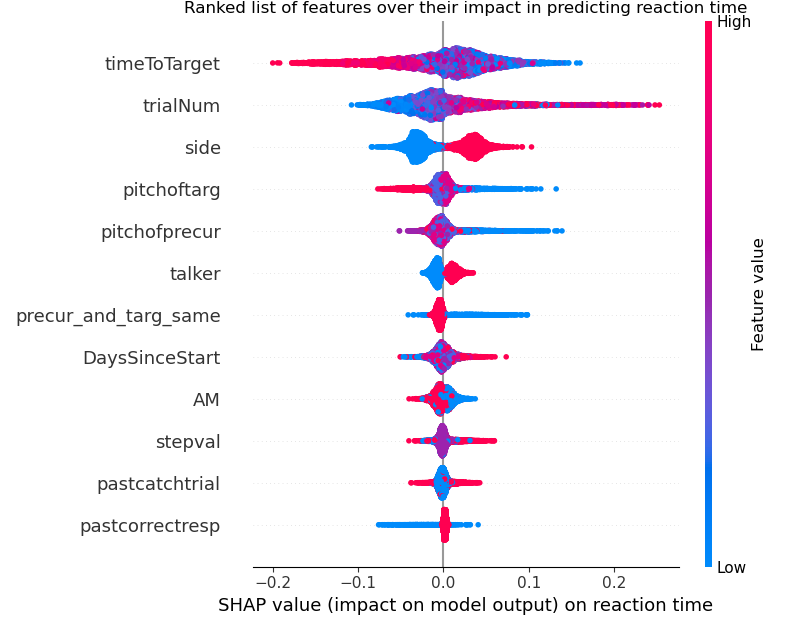
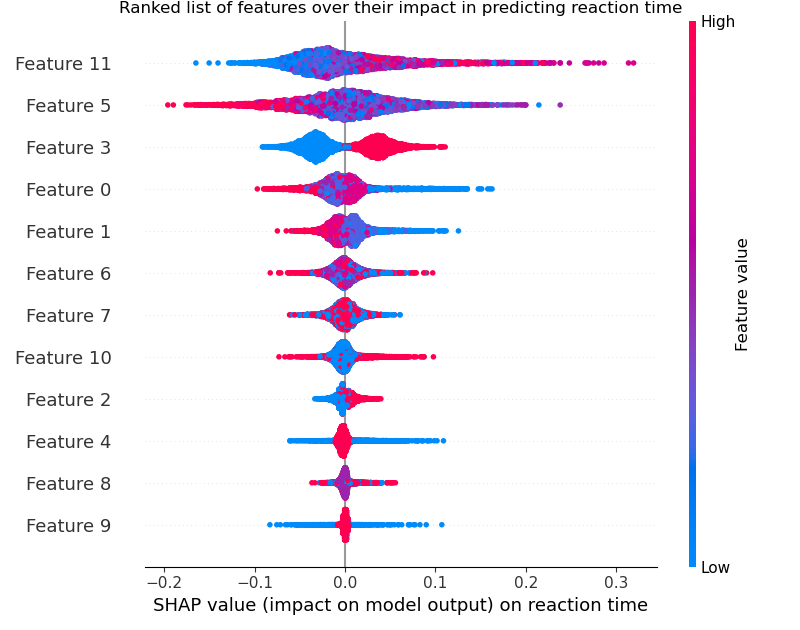
cleaning reactiontimemodel.py

diff --git a/reactiontimemodel.py b/reactiontimemodel.py
@@ -192,28 +192,28 @@ def runlgbreleasetimes(X, y, paramsinput=None):
 
     labels = [item.get_text() for item in ax.get_yticklabels()]
     print(labels)
-    # labels[11] = 'distance to sensor'
-    # labels[10] = 'target F0'
-    # labels[9] = 'trial number'
-    # labels[8] = 'precursor = target F0'
-    # labels[7] = 'male talker'
-    # labels[6] = 'time until target'
-    # labels[5] = 'target F0 - precursor F0'
-    # labels[4] = 'day of week'
-    # labels[3] = 'precursor F0'
-    # labels[2] = 'past trial was catch'
-    # labels[1] = 'trial took place in AM'
-    # labels[0] = 'past trial was correct'
+    labels[11] = 'distance to sensor'
+    labels[10] = 'target F0'
+    labels[9] = 'trial number'
+    labels[8] = 'precursor = target F0'
+    labels[7] = 'male talker'
+    labels[6] = 'time until target'
+    labels[5] = 'target F0 - precursor F0'
+    labels[4] = 'day of week'
+    labels[3] = 'precursor F0'
+    labels[2] = 'past trial was catch'
+    labels[1] = 'trial took place in AM'
+    labels[0] = 'past trial was correct'
 
     ax.set_yticklabels(labels)
     plt.savefig('figs/shapsummaryplot_allanimals2.png')
 
     plt.show()
 
-    shap.dependence_plot("timeToTarget", shap_values, dfx)  #
+    shap.dependence_plot("timeToTarget", shap_values, X_train)  #
 
-    explainer = shap.Explainer(xg_reg, dfx)
-    shap_values2 = explainer(dfx)
+    explainer = shap.Explainer(xg_reg, X_train)
+    shap_values2 = explainer(X_train)
     fig, ax = plt.subplots(figsize=(15, 15))
     shap.plots.scatter(shap_values2[:, "talker"], color=shap_values2[:, "precur_and_targ_same"], show = False)
     fig.tight_layout()
@@ -277,7 +277,7 @@ def run_correctrxntime_model(ferrets, optimization = False ):
         best_params = best_study_results.best_params
         np.save('optuna_results/best_paramsreleastimemodel_allferrets.npy', best_params)
 
-    xg_reg, ypred, y_test, results = runlgbreleasetimes(dfx.to_numpy(), df_use[col].to_numpy(), paramsinput=best_params)
+    xg_reg, ypred, y_test, results = runlgbreleasetimes(dfx, df_use[col], paramsinput=best_params)
 
 
 def main():
